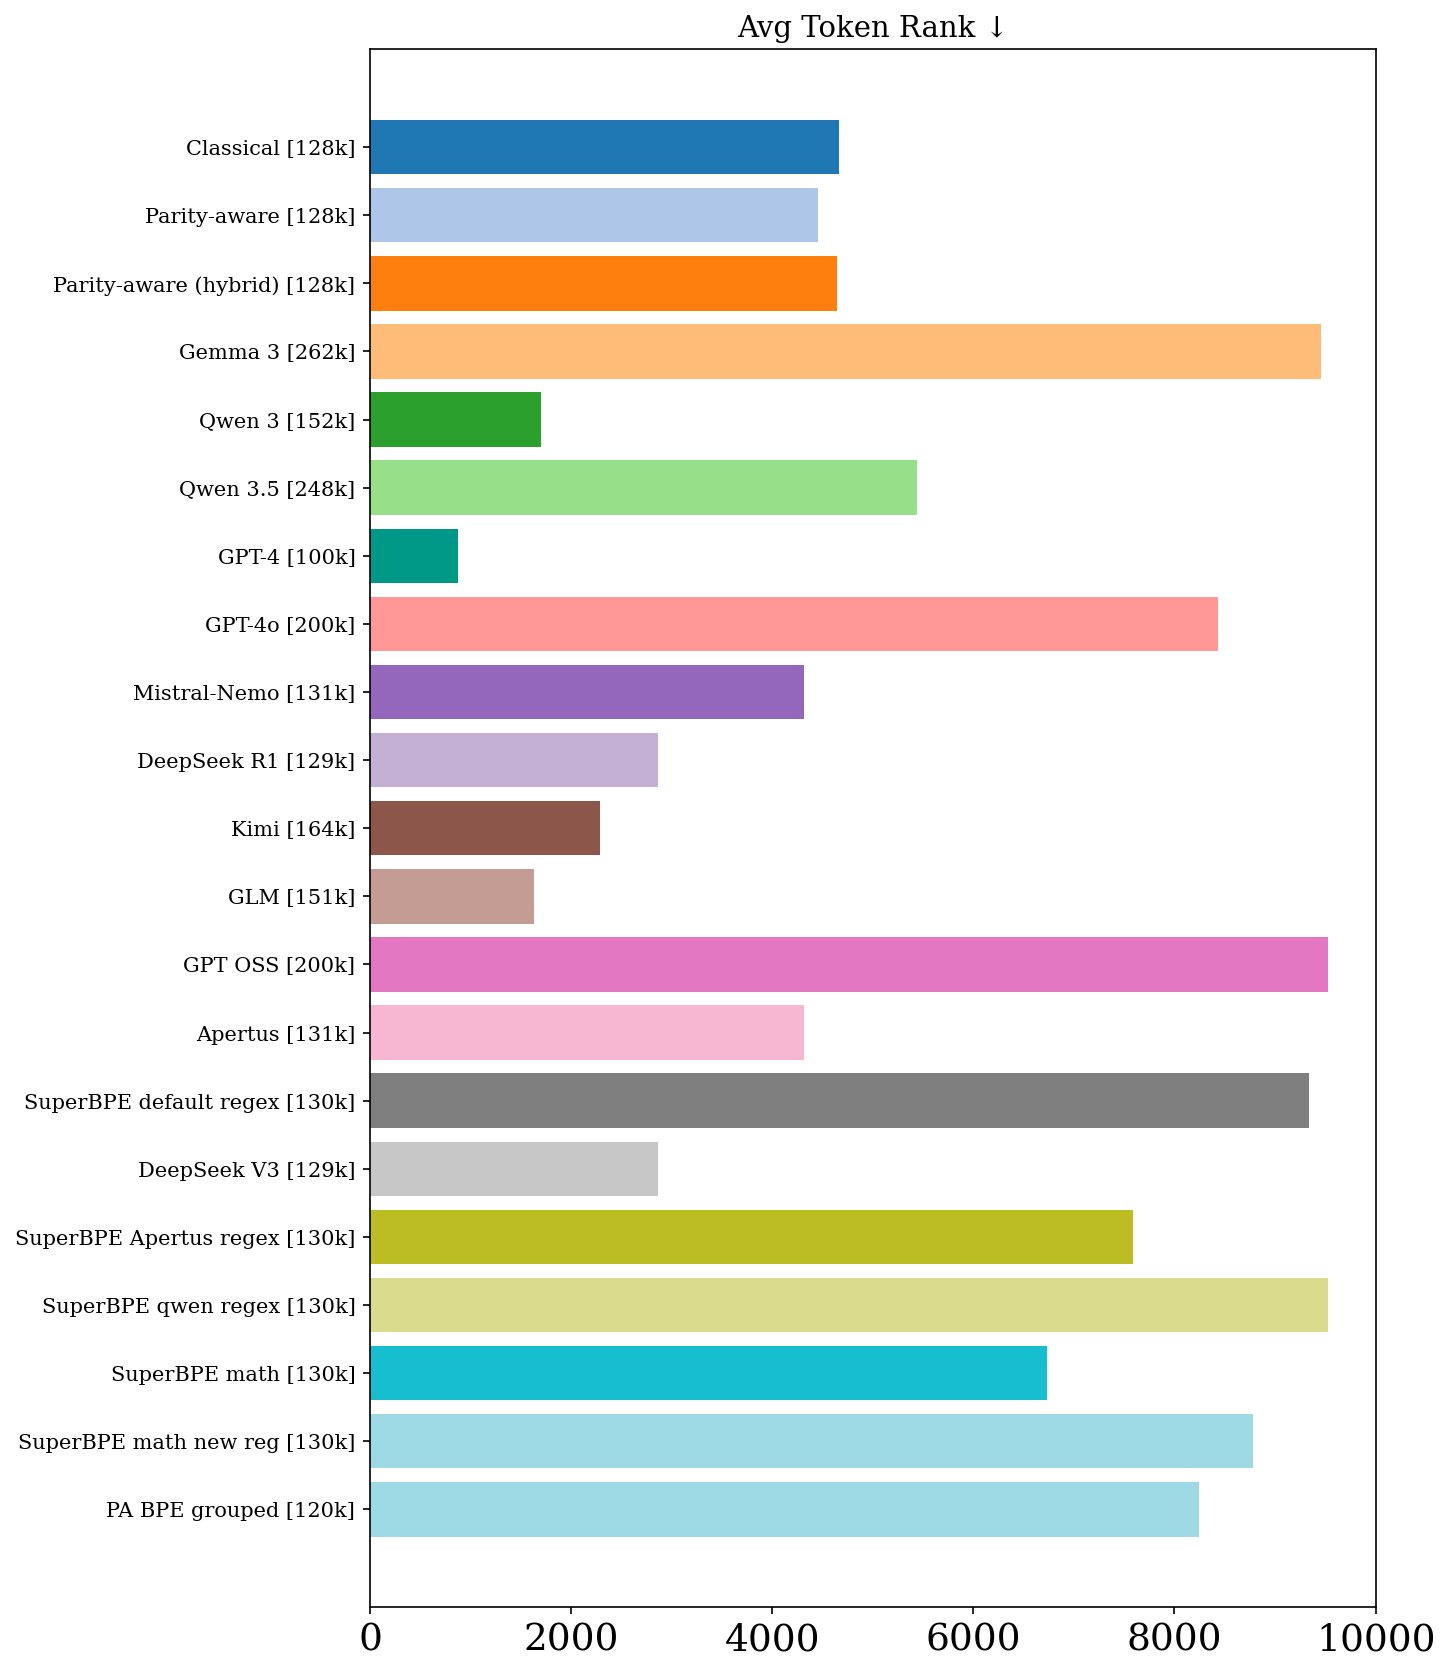
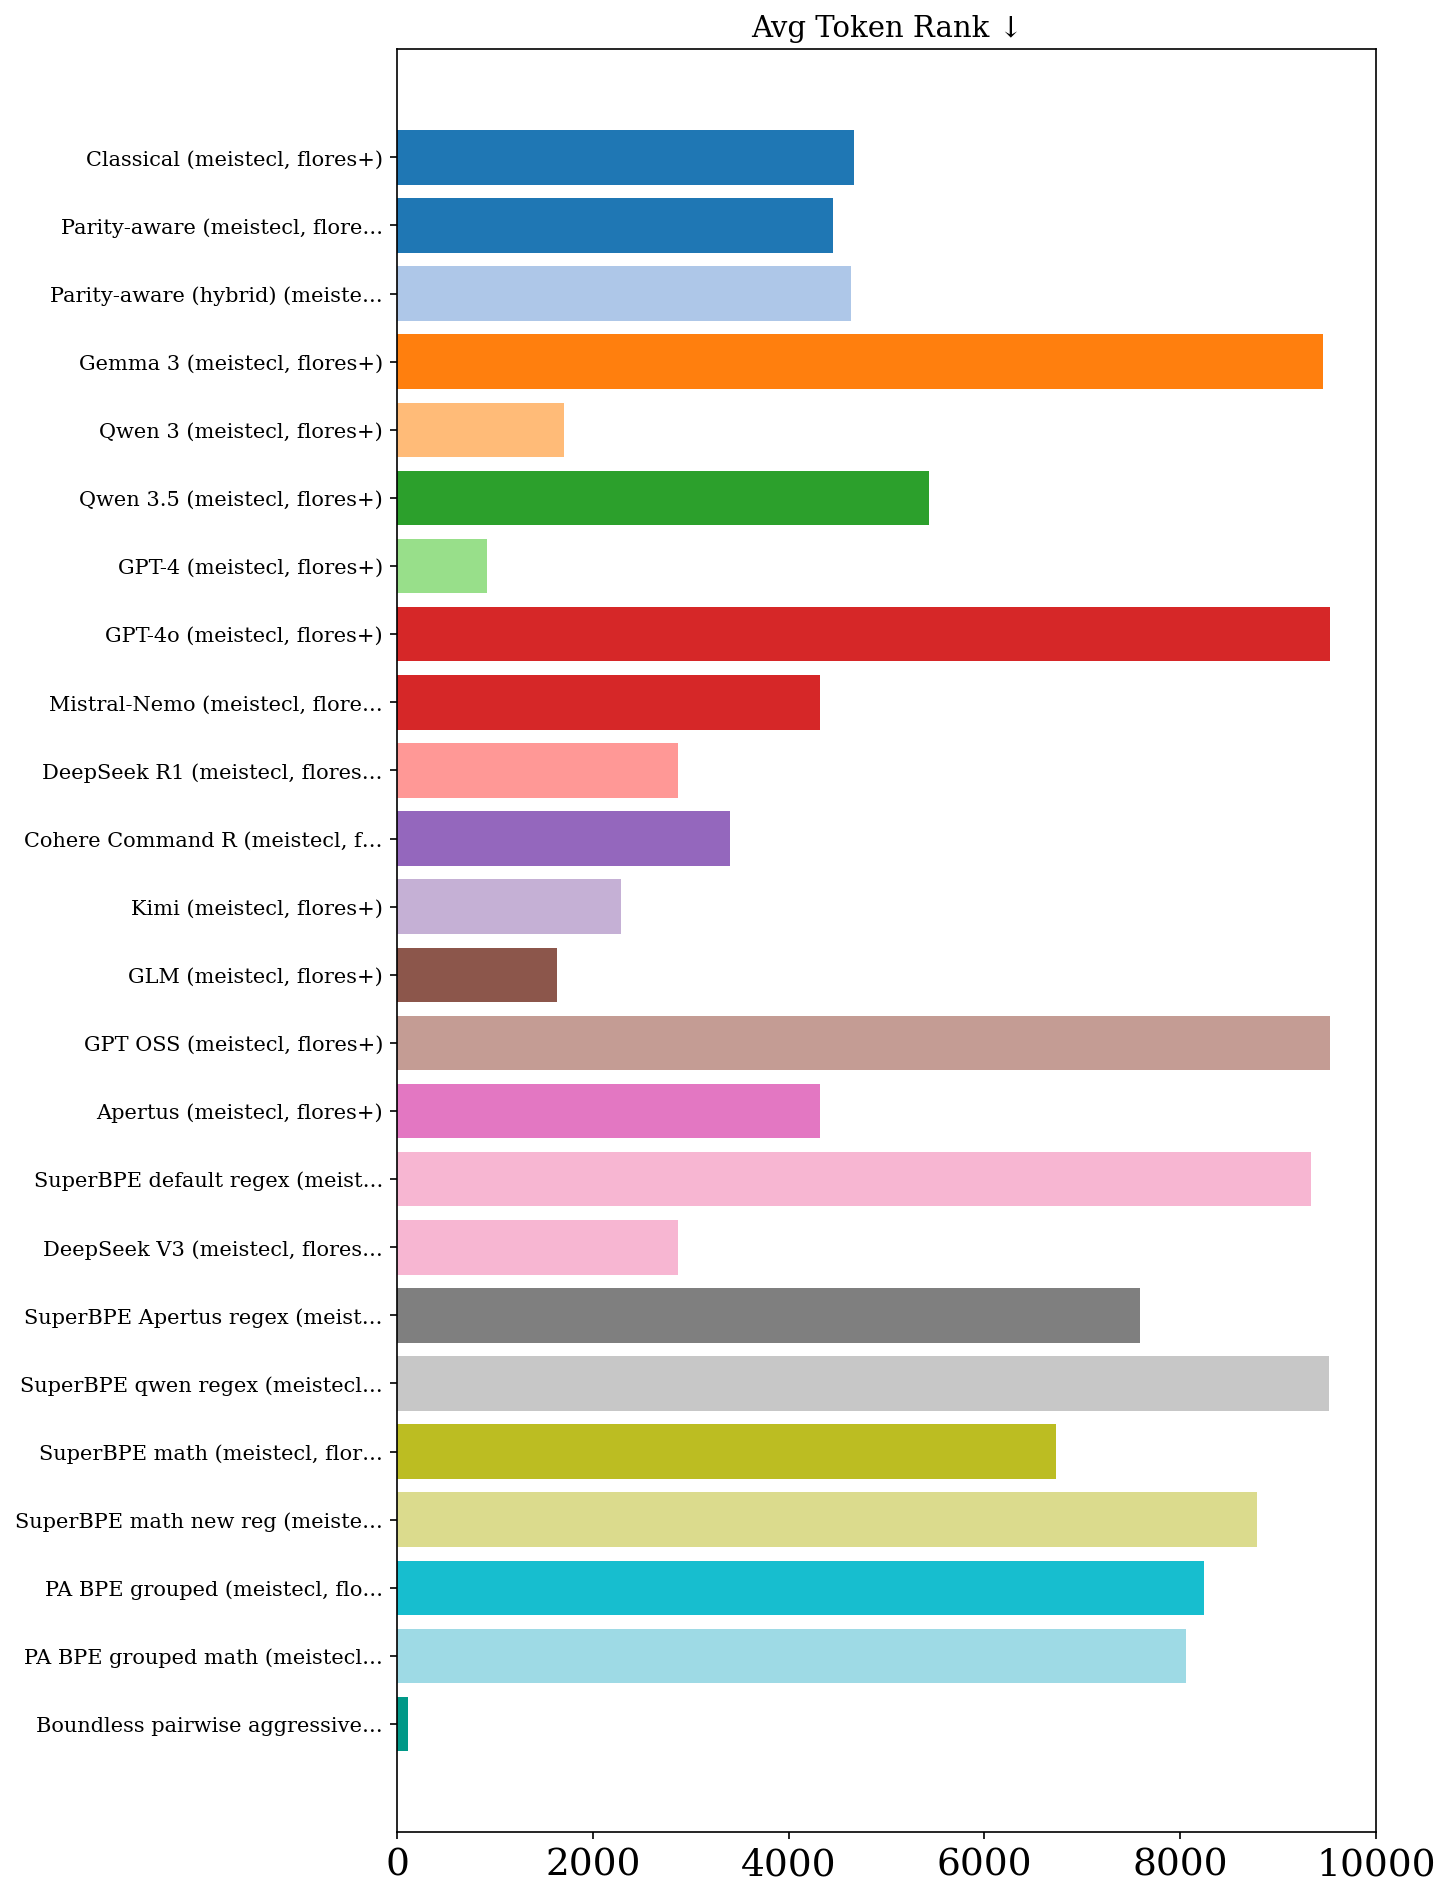
Update RESULTS_flores+_lines.md (2026-03-03 14:46:59)

diff --git a/RESULTS_flores+_lines.md b/RESULTS_flores+_lines.md
@@ -1,28 +1,30 @@
 # Tokenizer Evaluation Results
 
-_Last updated: 2026-03-01 18:27:10_
+_Last updated: 2026-03-03 14:47:01_
 
-| Tokenizer | Vocab Size | Fertility ↓ | Compression Rate ↑ | Vocab Util. ↑ | Avg Token Rank ↓ | Gini ↓ | 3-Digit Align. F1 ↑ | Op. Isolation ↑ | AST Align. ↑ | Ident. Frag. ↓ | Depth Corr. ↑ | Pat. Stability ↑ | Bound. Cross ↓ | Char Split ↓ | Languages | Dataset | User | Date | UTF-8 Integ. | TTR | Shannon Entropy |
-| --- | --- | --- | --- | --- | --- | --- | --- | --- | --- | --- | --- | --- | --- | --- | --- | --- | --- | --- | --- | --- | --- |
-| Classical (meistecl, flores+) | 128,004 | 59.463 | 0.022 | 0.682 | 4663.5 | 0.246 | 0.767 | 0.224 | 0.148 | 0.055 | **0.000** | **1.000** | 0.0574 | 0.1337 | 92 | flores+ | meistecl | 2026-02-27 | --- | --- | --- |
-| Parity-aware (meistecl, flores+) | 128,004 | 59.101 | 0.022 | **0.691** | 4456.6 | 0.220 | 0.728 | 0.224 | 0.188 | 0.082 | 0.000 | 1.000 | 0.0440 | 0.1106 | 92 | flores+ | meistecl | 2026-02-27 | --- | --- | --- |
-| Parity-aware (hybrid) (meistecl, flores+) | 128,004 | 58.267 | 0.022 | 0.691 | 4640.4 | 0.223 | 0.741 | 0.224 | 0.160 | 0.066 | 0.000 | 1.000 | 0.0450 | 0.1107 | 92 | flores+ | meistecl | 2026-02-27 | --- | --- | --- |
-| Gemma 3 (meistecl, flores+) | 262,145 | **46.221** | 0.026 | 0.447 | 9461.6 | 0.126 | 0.432 | 0.406 | 0.088 | 0.030 | -0.113 | 0.966 | 0.0293 | 0.0110 | 92 | flores+ | meistecl | 2026-02-27 | --- | --- | --- |
-| Qwen 3 (meistecl, flores+) | 151,669 | 75.897 | 0.020 | 0.324 | 1699.6 | 0.312 | 0.363 | 0.497 | 0.605 | 0.383 | 0.000 | 1.000 | 0.0561 | 0.2422 | 92 | flores+ | meistecl | 2026-02-27 | --- | --- | --- |
-| Qwen 3.5 (meistecl, flores+) | 248,077 | 53.347 | 0.024 | 0.387 | 5435.7 | 0.204 | 0.363 | 0.496 | **0.680** | 0.381 | 0.000 | 1.000 | 0.0096 | 0.0352 | 92 | flores+ | meistecl | 2026-02-27 | --- | --- | --- |
-| GPT-4 (meistecl, flores+) | 100,261 | 90.731 | 0.018 | 0.279 | 874.3 | 0.357 | 0.744 | 0.499 | 0.610 | 0.434 | 0.000 | 1.000 | 0.0516 | 0.4675 | 92 | flores+ | meistecl | 2026-02-27 | --- | --- | --- |
-| GPT-4o (meistecl, flores+) | 200,000 | 48.585 | 0.025 | 0.475 | 8435.5 | 0.160 | 0.741 | 0.376 | 0.615 | 0.450 | 0.000 | 1.000 | 0.0096 | 0.0495 | 92 | flores+ | meistecl | 2026-02-27 | --- | --- | --- |
-| Mistral-Nemo (meistecl, flores+) | 131,072 | 64.763 | 0.023 | 0.564 | 4318.1 | 0.308 | 0.363 | 0.185 | 0.060 | 0.037 | 0.000 | 1.000 | 0.0171 | 0.1525 | 92 | flores+ | meistecl | 2026-02-27 | --- | --- | --- |
-| DeepSeek R1 (meistecl, flores+) | 128,815 | 62.674 | 0.021 | 0.418 | 2864.6 | 0.229 | 0.767 | 0.204 | 0.000 | --- | 0.000 | 1.000 | 0.0509 | 0.0103 | 92 | flores+ | meistecl | 2026-02-27 | --- | --- | --- |
-| Kimi (meistecl, flores+) | 163,840 | 62.820 | 0.020 | 0.244 | 2283.0 | 0.199 | 0.767 | 0.466 | 0.609 | 0.408 | 0.000 | 1.000 | 0.0498 | 0.1139 | 92 | flores+ | meistecl | 2026-02-27 | --- | --- | --- |
-| GLM (meistecl, flores+) | 151,343 | 86.320 | 0.019 | 0.364 | 1631.6 | 0.372 | 0.471 | 0.000 | 0.001 | **0.000** | 0.000 | 1.000 | **0.0000** | **0.0000** | 92 | flores+ | meistecl | 2026-02-27 | --- | --- | --- |
-| GPT OSS (meistecl, flores+) | 200,019 | 47.045 | **0.027** | 0.521 | 9529.8 | 0.169 | 0.767 | 0.371 | 0.609 | 0.401 | 0.000 | 1.000 | 0.0078 | 0.0475 | 92 | flores+ | meistecl | 2026-02-27 | --- | --- | --- |
-| Apertus (meistecl, flores+) | 131,072 | 64.763 | 0.023 | 0.564 | 4318.1 | 0.308 | 0.363 | 0.185 | 0.060 | 0.037 | 0.000 | 1.000 | 0.0171 | 0.1525 | 92 | flores+ | meistecl | 2026-02-27 | --- | --- | --- |
-| SuperBPE default regex (meistecl, flores+) | 130,000 | 46.224 | 0.025 | 0.553 | 9333.4 | 0.106 | 0.767 | 0.339 | 0.225 | 0.028 | 0.000 | 1.000 | 0.0206 | 0.0249 | 92 | flores+ | meistecl | 2026-02-27 | --- | --- | --- |
-| DeepSeek V3 (meistecl, flores+) | 128,815 | 62.674 | 0.021 | 0.418 | 2864.6 | 0.229 | 0.767 | 0.204 | 0.000 | --- | 0.000 | 1.000 | 0.0509 | 0.0103 | 92 | flores+ | meistecl | 2026-02-27 | --- | --- | --- |
-| SuperBPE Apertus regex (meistecl, flores+) | 130,000 | 52.158 | 0.024 | 0.593 | 7591.0 | 0.192 | 0.767 | 0.982 | 0.259 | 0.029 | 0.000 | 1.000 | 0.0085 | 0.0139 | 92 | flores+ | meistecl | 2026-02-27 | --- | --- | --- |
-| SuperBPE qwen regex (meistecl, flores+) | 130,000 | 48.526 | 0.024 | 0.572 | 9524.6 | 0.097 | 0.363 | 0.268 | 0.284 | 0.024 | 0.000 | 1.000 | 0.0292 | 0.0332 | 92 | flores+ | meistecl | 2026-02-27 | --- | --- | --- |
-| SuperBPE math (meistecl, flores+) | 130,000 | 52.985 | 0.024 | 0.543 | 6733.8 | 0.190 | 0.767 | **0.983** | 0.264 | 0.028 | 0.000 | 1.000 | 0.0092 | 0.0126 | 92 | flores+ | meistecl | 2026-02-27 | --- | --- | --- |
-| SuperBPE math new reg (meistecl, flores+) | 130,000 | 46.554 | 0.025 | 0.539 | 8783.4 | 0.112 | **0.944** | 0.288 | 0.230 | 0.027 | 0.000 | 1.000 | 0.0218 | 0.0242 | 92 | flores+ | meistecl | 2026-02-27 | --- | --- | --- |
-| PA BPE grouped (meistecl, flores+) | 120,260 | 47.187 | 0.024 | 0.632 | 8240.1 | **0.064** | 0.700 | 0.224 | 0.159 | 0.067 | 0.000 | 1.000 | 0.0173 | 0.0205 | 92 | flores+ | meistecl | 2026-02-27 | --- | --- | --- |
-| Boundless pairwise aggressive n2 (dkletz, flores+) | 5,033 | 88.335 | 0.013 | 0.644 | **108.7** | 0.082 | --- | 0.047 | --- | --- | --- | --- | --- | --- | 92 | flores+ | dkletz | 2026-02-22 | --- | 0.0004 | 7.19 |
+| Tokenizer | Vocab Size | Fertility ↓ | Compression Rate ↑ | Vocab Util. ↑ | Avg Token Rank ↓ | Gini ↓ | 3-Digit Align. F1 ↑ | Op. Isolation ↑ | AST Align. ↑ | Ident. Frag. ↓ | Depth Corr. ↑ | Pat. Stability ↑ | Bound. Cross ↓ | Char Split ↓ | Languages | Dataset | User | Date |
+| --- | --- | --- | --- | --- | --- | --- | --- | --- | --- | --- | --- | --- | --- | --- | --- | --- | --- | --- |
+| Classical (meistecl, flores+) | 128,004 | 59.463 | 0.022 | 0.682 | 4663.5 | 0.246 | 0.789 | 0.294 | 0.148 | 0.055 | -0.049 | 0.991 | 0.0574 | 0.1337 | 92 | flores+ | meistecl | 2026-03-03 |
+| Parity-aware (meistecl, flores+) | 128,004 | 59.101 | 0.022 | **0.691** | 4456.6 | 0.220 | 0.736 | 0.294 | 0.188 | 0.082 | -0.049 | 0.991 | 0.0440 | 0.1106 | 92 | flores+ | meistecl | 2026-03-03 |
+| Parity-aware (hybrid) (meistecl, flores+) | 128,004 | 58.267 | 0.022 | 0.691 | 4640.4 | 0.223 | 0.771 | 0.294 | 0.160 | 0.066 | -0.049 | 0.991 | 0.0450 | 0.1107 | 92 | flores+ | meistecl | 2026-03-03 |
+| Gemma 3 (meistecl, flores+) | 262,145 | **46.221** | 0.026 | 0.447 | 9461.6 | 0.126 | 0.451 | 0.509 | 0.088 | 0.030 | -0.091 | 0.965 | 0.0293 | 0.0110 | 92 | flores+ | meistecl | 2026-03-03 |
+| Qwen 3 (meistecl, flores+) | 151,669 | 75.897 | 0.020 | 0.324 | 1699.6 | 0.312 | 0.451 | 0.966 | 0.605 | 0.383 | -0.037 | 0.994 | 0.0561 | 0.2422 | 92 | flores+ | meistecl | 2026-03-03 |
+| Qwen 3.5 (meistecl, flores+) | 248,077 | 53.347 | 0.024 | 0.387 | 5435.7 | 0.204 | 0.451 | 0.966 | **0.680** | 0.381 | -0.037 | 0.994 | 0.0096 | 0.0352 | 92 | flores+ | meistecl | 2026-03-03 |
+| GPT-4 (meistecl, flores+) | 100,261 | 90.200 | 0.018 | 0.302 | 917.5 | 0.362 | 0.793 | 0.966 | 0.605 | 0.383 | -0.037 | 0.994 | 0.0517 | 0.4671 | 92 | flores+ | meistecl | 2026-03-03 |
+| GPT-4o (meistecl, flores+) | 200,000 | 47.045 | **0.027** | 0.522 | 9529.8 | 0.169 | 0.793 | 0.966 | 0.609 | 0.401 | -0.037 | 0.994 | 0.0078 | 0.0475 | 92 | flores+ | meistecl | 2026-03-03 |
+| Mistral-Nemo (meistecl, flores+) | 131,072 | 64.763 | 0.023 | 0.564 | 4318.1 | 0.308 | 0.451 | 0.496 | 0.060 | 0.037 | -0.037 | 0.994 | 0.0171 | 0.1525 | 92 | flores+ | meistecl | 2026-03-03 |
+| DeepSeek R1 (meistecl, flores+) | 128,815 | 62.674 | 0.021 | 0.418 | 2864.6 | 0.229 | 0.793 | 0.496 | 0.000 | --- | -0.037 | 0.994 | 0.0509 | 0.0103 | 92 | flores+ | meistecl | 2026-03-03 |
+| Cohere Command R (meistecl, flores+) | 255,029 | 75.168 | 0.022 | 0.433 | 3397.6 | 0.371 | 0.451 | 0.509 | 0.032 | 0.016 | -0.037 | 0.994 | 0.0474 | 0.0008 | 92 | flores+ | meistecl | 2026-03-03 |
+| Kimi (meistecl, flores+) | 163,840 | 62.820 | 0.020 | 0.244 | 2283.0 | 0.199 | 0.793 | 0.966 | 0.609 | 0.408 | -0.037 | 0.994 | 0.0498 | 0.1139 | 92 | flores+ | meistecl | 2026-03-03 |
+| GLM (meistecl, flores+) | 151,343 | 86.320 | 0.019 | 0.364 | 1631.6 | 0.372 | 0.644 | 0.000 | 0.001 | **0.000** | **0.000** | **1.000** | **0.0000** | **0.0000** | 92 | flores+ | meistecl | 2026-03-03 |
+| GPT OSS (meistecl, flores+) | 200,019 | 47.045 | 0.027 | 0.521 | 9529.8 | 0.169 | 0.793 | 0.966 | 0.609 | 0.401 | -0.037 | 0.994 | 0.0078 | 0.0475 | 92 | flores+ | meistecl | 2026-03-03 |
+| Apertus (meistecl, flores+) | 131,072 | 64.763 | 0.023 | 0.564 | 4318.1 | 0.308 | 0.451 | 0.496 | 0.060 | 0.037 | -0.037 | 0.994 | 0.0171 | 0.1525 | 92 | flores+ | meistecl | 2026-03-03 |
+| SuperBPE default regex (meistecl, flores+) | 130,000 | 46.224 | 0.025 | 0.553 | 9333.4 | 0.106 | 0.793 | 0.407 | 0.225 | 0.028 | -0.037 | 0.994 | 0.0206 | 0.0249 | 92 | flores+ | meistecl | 2026-03-03 |
+| DeepSeek V3 (meistecl, flores+) | 128,815 | 62.674 | 0.021 | 0.418 | 2864.6 | 0.229 | 0.793 | 0.496 | 0.000 | --- | -0.037 | 0.994 | 0.0509 | 0.0103 | 92 | flores+ | meistecl | 2026-03-03 |
+| SuperBPE Apertus regex (meistecl, flores+) | 130,000 | 52.158 | 0.024 | 0.593 | 7591.0 | 0.192 | 0.793 | **0.992** | 0.259 | 0.029 | -0.037 | 0.994 | 0.0085 | 0.0139 | 92 | flores+ | meistecl | 2026-03-03 |
+| SuperBPE qwen regex (meistecl, flores+) | 130,000 | 48.526 | 0.024 | 0.572 | 9524.6 | 0.097 | 0.451 | 0.407 | 0.284 | 0.024 | -0.031 | 0.995 | 0.0292 | 0.0332 | 92 | flores+ | meistecl | 2026-03-03 |
+| SuperBPE math (meistecl, flores+) | 130,000 | 52.985 | 0.024 | 0.543 | 6733.8 | 0.190 | 0.793 | 0.992 | 0.264 | 0.028 | -0.037 | 0.994 | 0.0092 | 0.0126 | 92 | flores+ | meistecl | 2026-03-03 |
+| SuperBPE math new reg (meistecl, flores+) | 130,000 | 46.554 | 0.025 | 0.539 | 8783.4 | 0.112 | **0.891** | 0.263 | 0.230 | 0.027 | -0.037 | 0.994 | 0.0218 | 0.0242 | 92 | flores+ | meistecl | 2026-03-03 |
+| PA BPE grouped (meistecl, flores+) | 120,260 | 47.187 | 0.024 | 0.632 | 8240.1 | **0.064** | 0.722 | 0.294 | 0.159 | 0.067 | -0.049 | 0.991 | 0.0173 | 0.0205 | 92 | flores+ | meistecl | 2026-03-03 |
+| PA BPE grouped math (meistecl, flores+) | 128,260 | 47.533 | 0.024 | 0.606 | 8064.2 | 0.074 | 0.451 | 0.496 | 0.094 | 0.050 | -0.037 | 0.994 | 0.0142 | 0.0242 | 92 | flores+ | meistecl | 2026-03-03 |
+| Boundless pairwise aggressive n2 (dkletz, flores+) | 5,033 | 88.335 | 0.013 | 0.644 | **108.7** | 0.082 | --- | 0.047 | --- | --- | --- | --- | --- | --- | 92 | flores+ | dkletz | 2026-02-22 |
